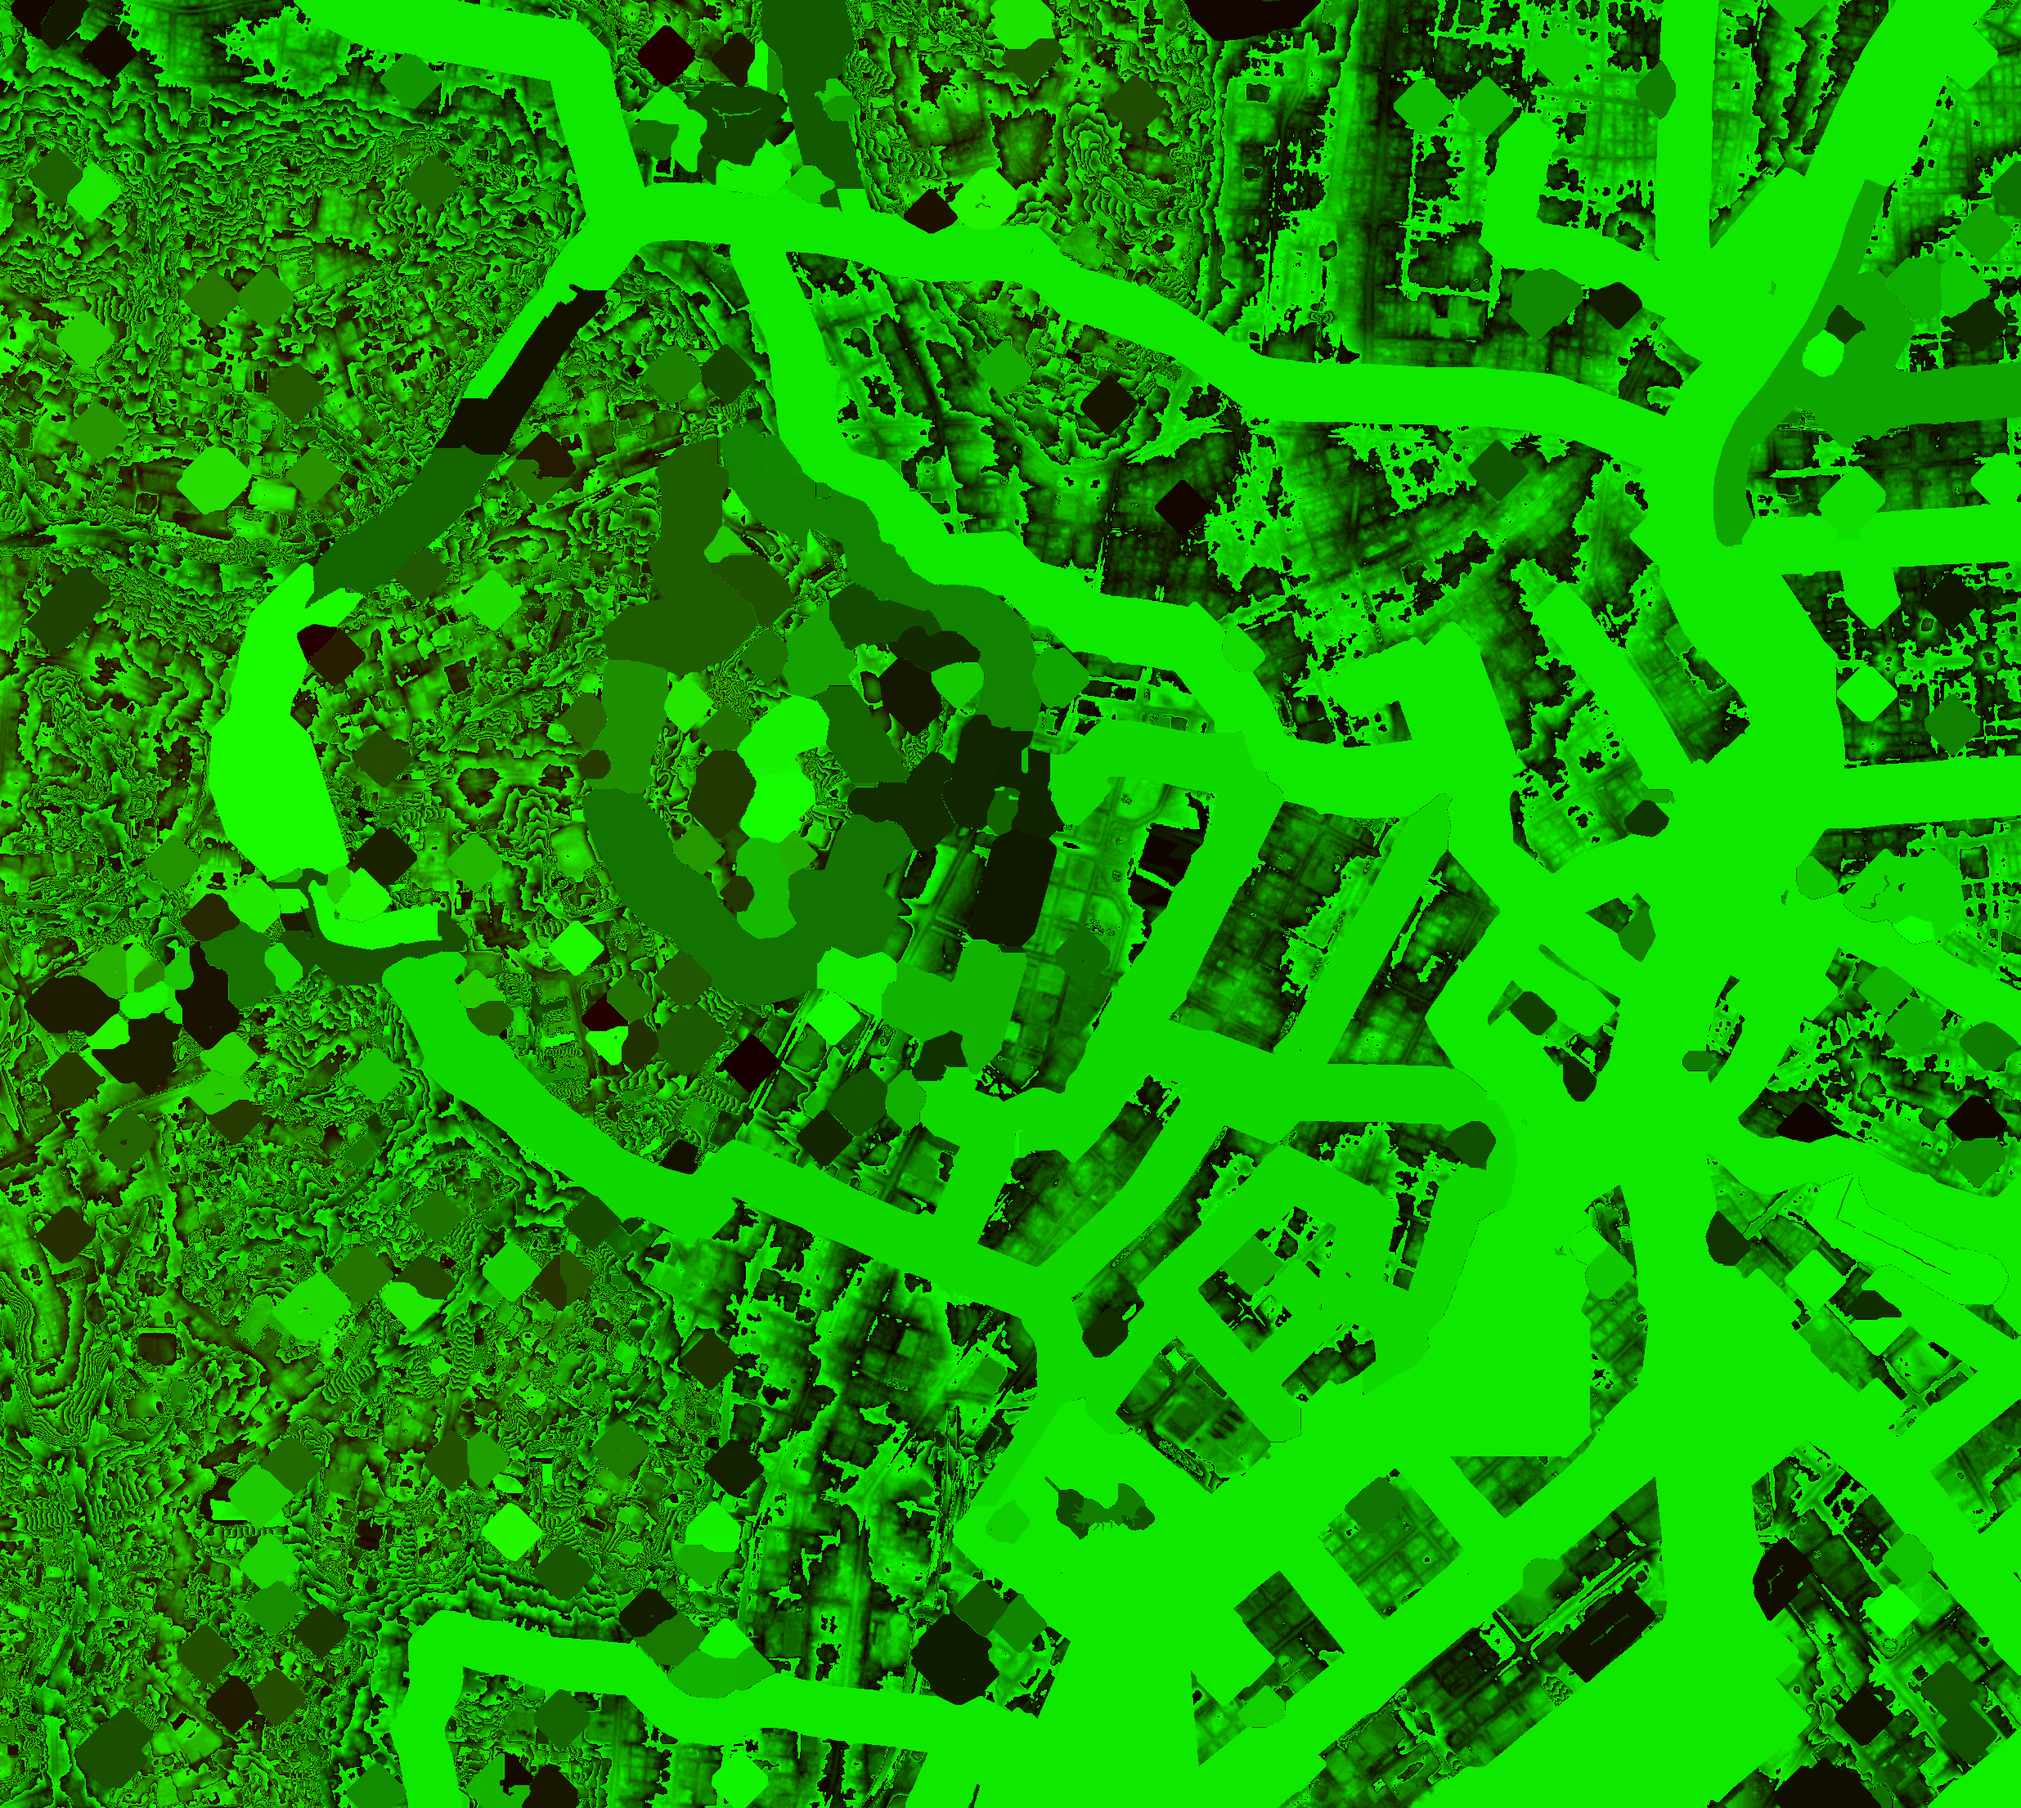
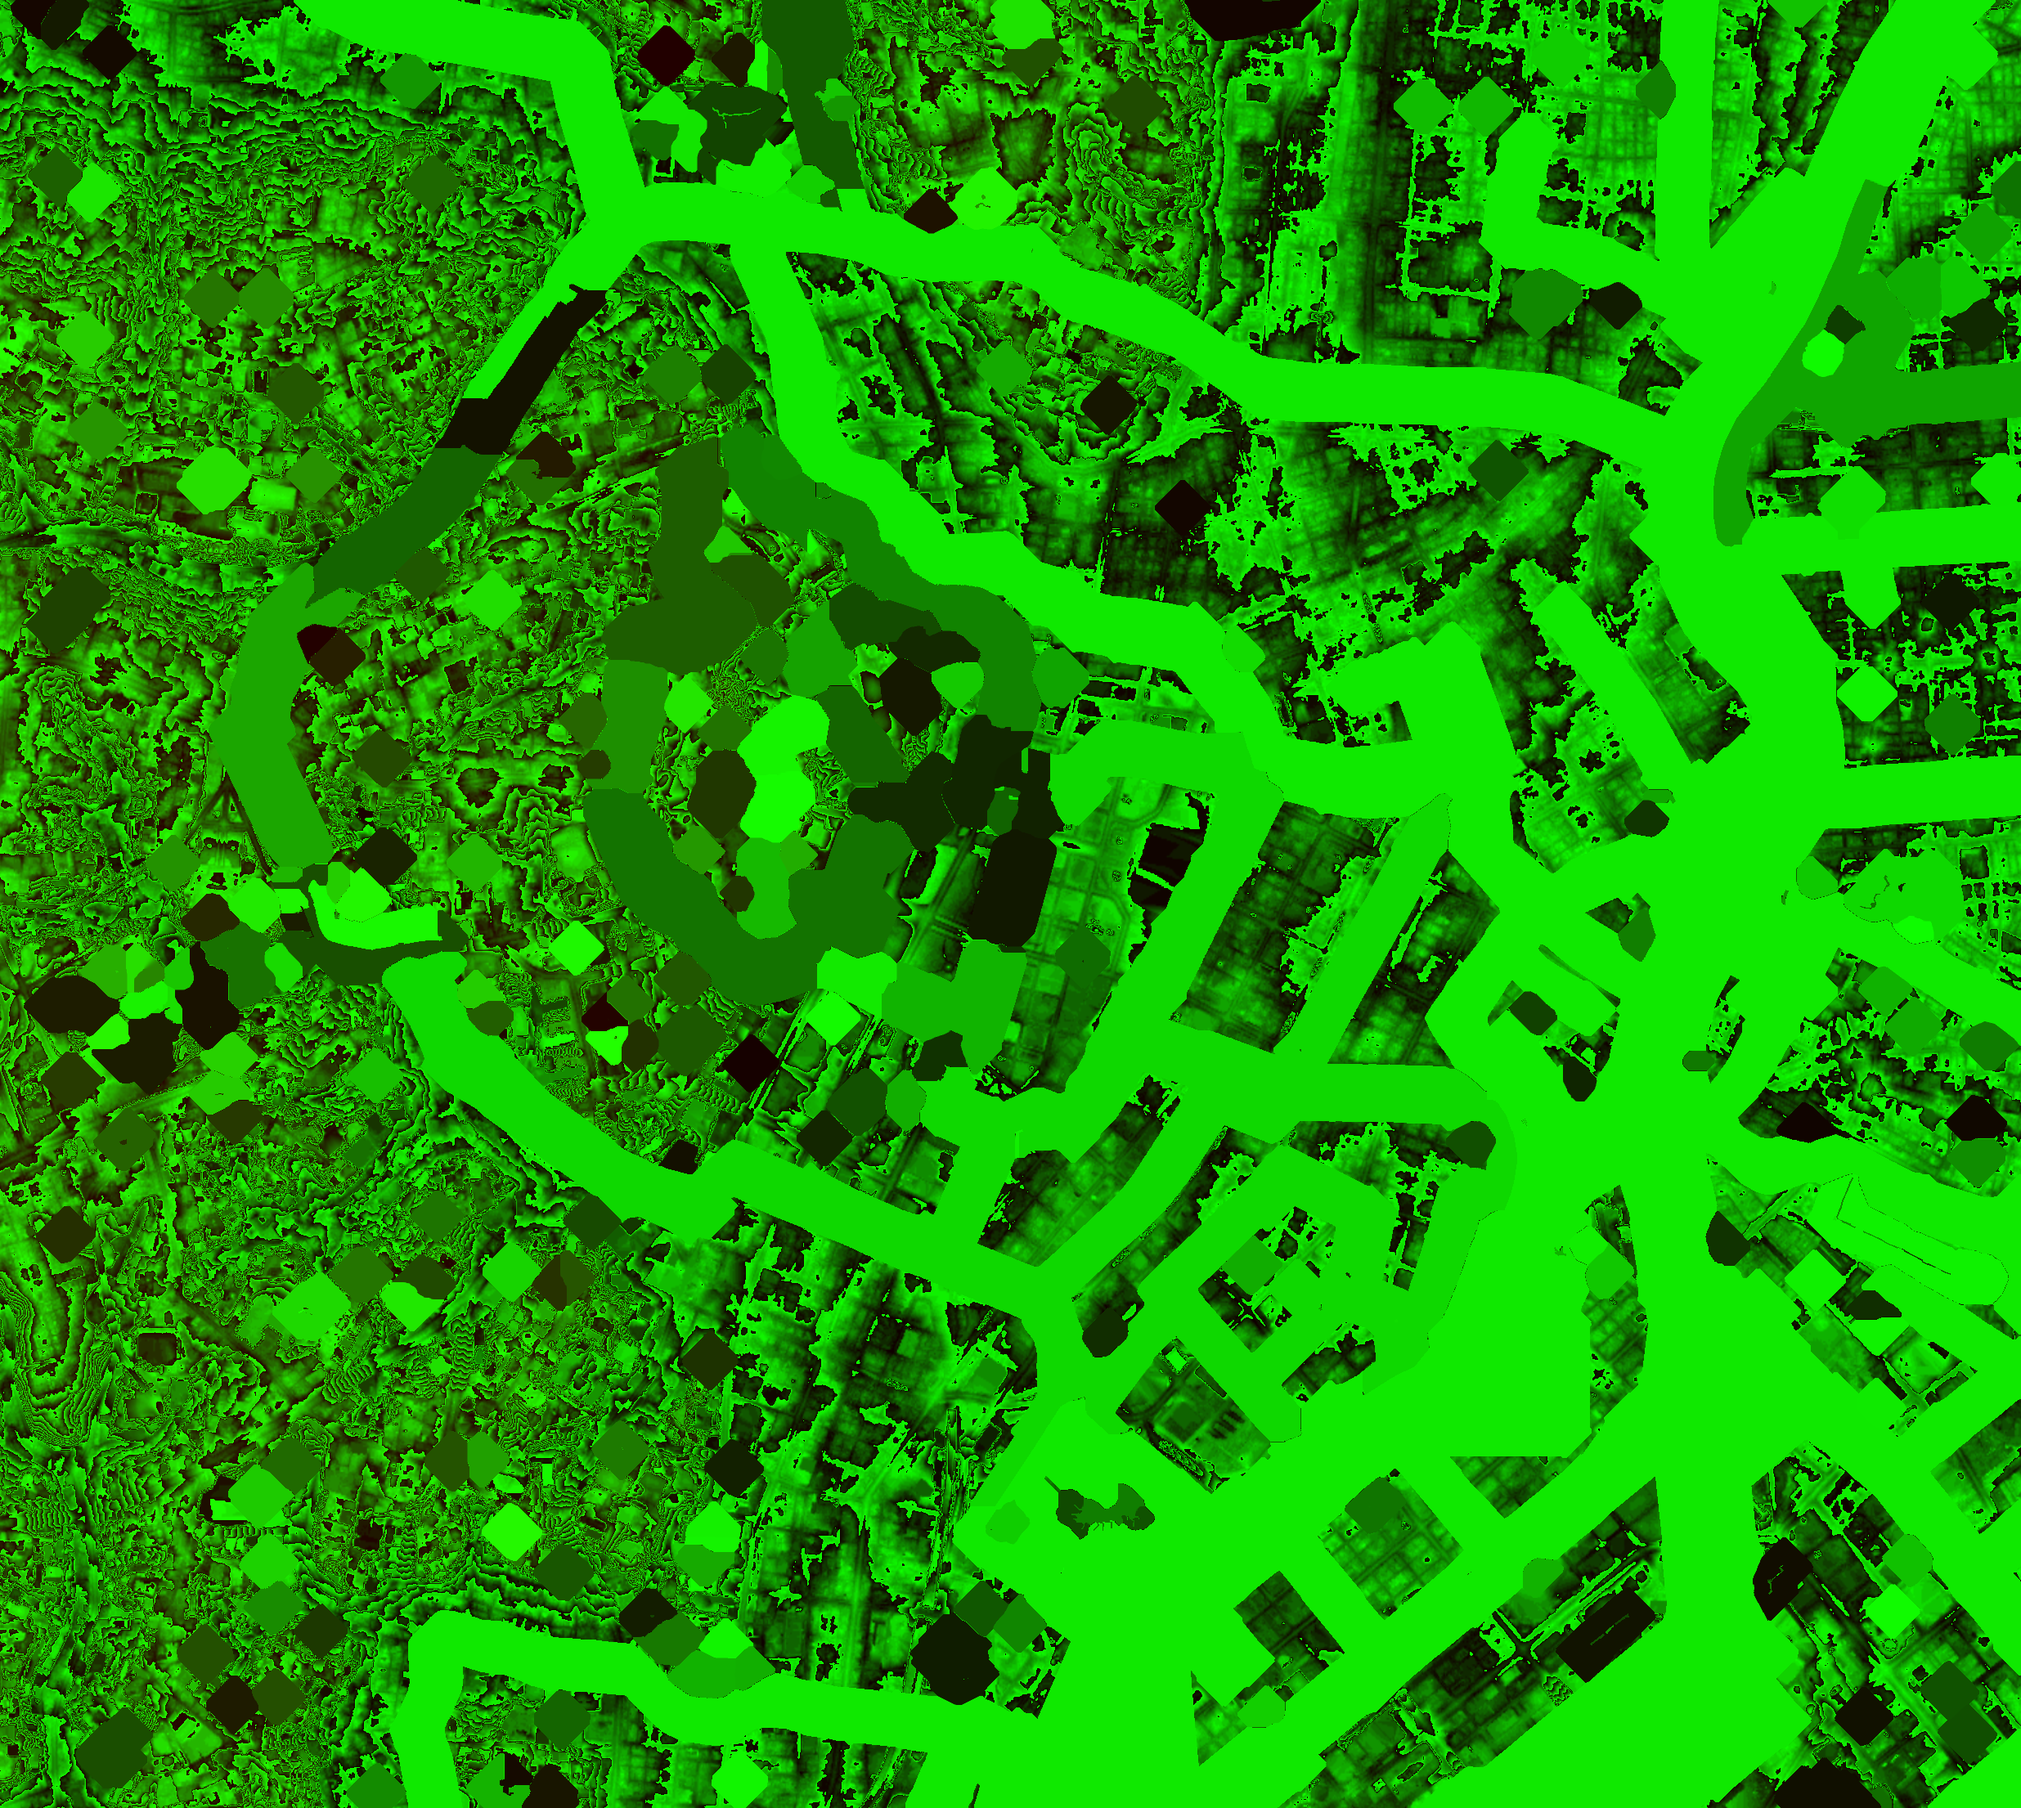
真田濠を古地図どおり一本の斜めの濠に (四谷御門の南から喰違見附まで、幅 約 80m)。喰違見附を正しい場所 (濠の南東の端) に置き、ワープもそのそばに。濠の東 (ソフィア通りまで) と西 (外堀通りの向こうの若葉東公園・迎賓館の前庭) を緑地に
Claude-Session: https://claude.ai/code/session_01UXdYbnpU5x9gYZ3cBC1Uhw

Changed region(s): [[0.0935, 0.3121, 0.187, 0.4993]]

diff --git a/js/tokyo.js b/js/tokyo.js
@@ -9,7 +9,7 @@ import { SHUTOKO } from './shutoko-data.js';
 import { RAIL } from './rail-data.js';
 import { addTokyoTower, addDiet, addTechGym, addTokyoDome, addBudokan, addGeihinkan, addSkytree, addFuji, addDistant } from './tokyo/landmarks.js';
 import { addOchanomizu, addTokyoStation, addAkasaka, addRailways, addAkibaSigns, addNewOtani, addYotsuyaKudan, addGinzaNihonbashi, addUeno, addSensoji, addAsahi, addUenoAsakusa } from './tokyo/landmarks2.js';
-import { W, codeAt, isWater, LEVEL_H, waterY, nearWaterGrid, groundMeshH } from './world.js';
+import { W, codeAt, isWater, LEVEL_H, waterY, nearWaterGrid, groundMeshH, sanadaGreen } from './world.js';
 // 地面の上に置くもの (線路・道・橋のたもと・ビル) は、描いている地面のメッシュ (16m 格子) と同じ高さに合わせる (細かい標高だとメッシュに潜って途切れて見える)
 const terrainH = groundMeshH;
 import { mergeStatic } from './merge.js';
@@ -451,7 +451,7 @@ export function buildTokyo(scene, renderer, bankSegs = []) {
     const pts = [[bd.cx, bd.cz], [(bd.minx + bd.cx) / 2, bd.cz], [(bd.maxx + bd.cx) / 2, bd.cz], [bd.cx, (bd.minz + bd.cz) / 2], [bd.cx, (bd.maxz + bd.cz) / 2]];
     if (bad(bd.cx, bd.cz) || pts.filter(([x, z]) => bad(x, z)).length >= 2) { bd.plateau = false; dropped++; continue; }
     // 手で作る名所 (迎賓館) の所の PLATEAU のビルは描かない
-    if (Math.hypot(bd.cx - GHX, bd.cz - GHZ) < 95 || Math.hypot(bd.cx - DTX, bd.cz - DTZ) < 175) { bd.plateau = false; dropped++; continue; }
+    if (Math.hypot(bd.cx - GHX, bd.cz - GHZ) < 95 || Math.hypot(bd.cx - DTX, bd.cz - DTZ) < 175 || sanadaGreen(bd.cx + OX, bd.cz + OZ)) { bd.plateau = false; dropped++; continue; }
     // 小舟から見えるのは川・お濠に面した街と高いビルだけ。水から 200m より奥の低いビルは描かない (軽くする)
     if (bd.h < 45 && !nearWaterGrid(bd.cx + OX, bd.cz + OZ, 200)) { bd.plateau = false; bd.far = true; }
   }

diff --git a/js/world.js b/js/world.js
@@ -107,11 +107,22 @@ const GROUND_RGB = [
 
 function hash(i) { i = (i ^ 61) ^ (i >>> 16); i *= 9; i ^= i >>> 4; i *= 0x27d4eb2d; i ^= i >>> 15; return (i >>> 0) / 4294967296; }
 
+// 真田濠のまわりの緑: 東は土手の緑道、西は外堀通りの向こうの緑地
+export function sanadaGreen(x, z) {
+  const [ax, az] = ll(35.68575, 139.72990), [bx, bz] = ll(35.68170, 139.73225);
+  const vx = bx - ax, vz = bz - az, L2 = vx * vx + vz * vz, t = ((x - ax) * vx + (z - az) * vz) / L2;
+  if (t < -0.02 || t > 1.02) return false;
+  const px = x - ax - vx * t, pz = z - az - vz * t, d = Math.hypot(px, pz);
+  // 東側 (ソフィア通りまでの緑道) は 112m まで、西側 (外堀通り 405 の向こうの緑地: 若葉東公園・迎賓館の前庭のあたり) は 170m まで
+  return (vx * pz - vz * px) < 0 ? d > 36 && d < 112 : d > 36 && d < 170;
+}
 function makeGroundTextures() {
   const n = W.w * W.h;
   const col = new Uint8Array(n * 4);
   for (let k = 0; k < n; k++) {
-    const c = W.code[k], b = GROUND_RGB[c];
+    const c = W.code[k];
+    let b = GROUND_RGB[c];
+    if (c === 5 && sanadaGreen(((k % W.w) + 0.5) * W.res, (Math.floor(k / W.w) + 0.5) * W.res)) b = [92, 150, 62];
     const r = (hash(k) - 0.5) * 14;
     // 今の東京は道路の白線っぽい明暗、江戸は土のむら
     col[k * 4] = Math.max(0, Math.min(255, b[0] + r));

diff --git a/js/edo.js b/js/edo.js
@@ -89,7 +89,7 @@ export const GATES = [
   ['神田橋門', 35.6895, 139.7635, 'bridge', 1], ['常盤橋門', 35.6859, 139.7704, 'bridge', 1], ['呉服橋門', 35.6830, 139.7722, 'bridge', 1],
   ['鍛冶橋門', 35.6768, 139.7682, 'bridge', 1], ['数寄屋橋門', 35.6728, 139.7631, 'bridge', 1], ['山下門', 35.6700, 139.7597, 'bridge', 1],
   ['幸橋門', 35.6683, 139.7553, 'bridge', 1], ['虎ノ門', 35.6697, 139.7495, 'dobashi', 1], ['赤坂門', 35.6778, 139.7366, 'bridge', 1],
-  ['喰違見附', 35.6835, 139.7323, 'dobashi', 0], ['四谷門', 35.6862, 139.7305, 'dobashi', 1], ['市ヶ谷門', 35.6915, 139.7365, 'dobashi', 1],
+  ['喰違見附', 35.68125, 139.73270, 'dobashi', 0], ['四谷門', 35.6862, 139.7305, 'dobashi', 1], ['市ヶ谷門', 35.6915, 139.7365, 'dobashi', 1],
   ['牛込門', 35.7015, 139.7438, 'bridge', 1], ['小石川門', 35.7027, 139.7515, 'bridge', 1], ['筋違橋門', 35.6975, 139.7710, 'bridge', 1],
   ['浅草橋門', 35.6965, 139.7855, 'bridge', 1], ['芝口見附', 35.6658, 139.7598, 'bridge', 0], ['内桜田門', 35.6838, 139.7582, 'dobashi', 0],
 ];

diff --git a/tools/patch_map.py b/tools/patch_map.py
@@ -145,7 +145,12 @@ for y in range(cell(35.6870, 0)[0], cell(35.68125, 0)[0] + 1):
     la_ = N0 - (y + 0.5) * RES / KZ
     for x in range(cell(0, 139.7280)[1], cell(0, 139.7340)[1] + 1):
         lo_ = W0 + (x + 0.5) * RES / KX
-        inside = in_poly(la_, lo_, SANADA_POLY)
+        # 古地図の真田濠: 四谷御門の南から喰違見附まで、斜めにのびる幅 約 80m の一本の濠 (両岸は土手)
+        ax_, az_ = 139.72990, 35.68575; bx_, bz_ = 139.73225, 35.68170
+        px_, pz_ = (lo_ - ax_) * KX, (la_ - az_) * KZ; vx_, vz_ = (bx_ - ax_) * KX, (bz_ - az_) * KZ
+        tt_ = max(0.0, min(1.0, (px_ * vx_ + pz_ * vz_) / (vx_ * vx_ + vz_ * vz_)))
+        dd_ = math.hypot(px_ - vx_ * tt_, pz_ - vz_ * tt_)
+        inside = dd_ < 40 - 12 * max(0.0, tt_ - 0.85) / 0.15
         if inside and A[y, x] != 0: A[y, x] = 0; ns += 1
         elif not inside and A[y, x] == 0 and 35.68130 < la_ < 35.68560: A[y, x] = 5; ns += 1
 print('真田濠を新宿通りの南・外堀通りとソフィア通りのあいだに', ns)
@@ -274,7 +279,7 @@ w['warps'] = [[*snapw(k[0], k[1]), *snapw(k[2], k[3])] for k in w['warps']]
 MOVE = [((35.6924, 139.7548), (35.69269, 139.75533)),
         ((35.6841, 139.7556), (35.68300, 139.75586)),
         ((35.6823, 139.7553), (35.68262, 139.75600)),
-        ((35.68351, 139.73229), (35.68160, 139.73230)), ((35.68200, 139.73160), (35.68160, 139.73230)), ((35.6822, 139.7310), (35.68160, 139.73230)), ((35.6806, 139.7323), (35.68096, 139.73239)),  # 喰違見附の両側
+        ((35.68351, 139.73229), (35.68185, 139.73215)), ((35.68200, 139.73160), (35.68185, 139.73215)), ((35.6822, 139.7310), (35.68185, 139.73215)), ((35.6806, 139.7323), (35.68096, 139.73239)),  # 喰違見附の両側
         ((35.6848, 139.7454), (35.68428, 139.74515)), ((35.6832, 139.7451), (35.68335, 139.74510))]  # 半蔵門の土橋 (35.6839) の両側  # 坂下門: 蛤濠の南西の端 ↔ 二重橋濠  # 清水濠の側を雉子橋御門のそばへ
 for (la0, lo0), (la1, lo1) in MOVE:
     x0, z0 = (lo0 - W0) * KX, (N0 - la0) * KZ; x1, z1 = snapw((lo1 - W0) * KX, (N0 - la1) * KZ)
